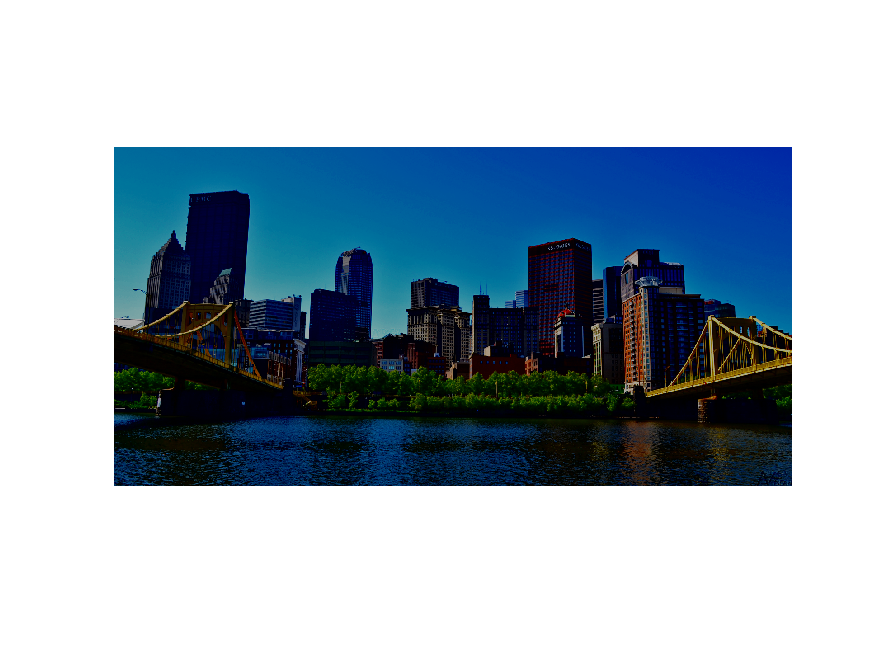
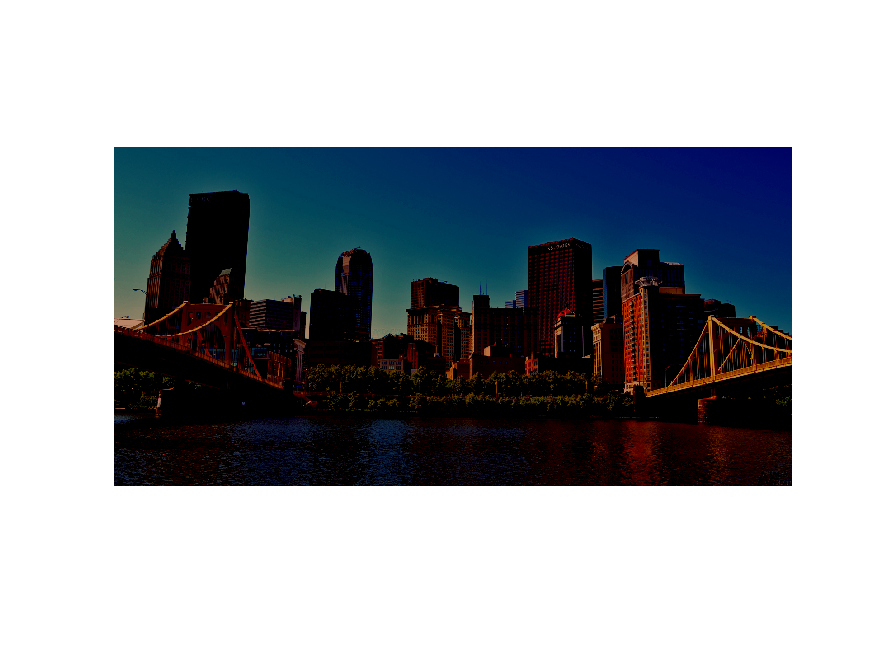
fixed some stuff i think

Changed region(s): [[0.1234, 0.2134, 0.9257, 0.7622]]

diff --git a/hw1/hw1.m b/hw1/hw1.m
@@ -3,23 +3,23 @@
 % Matrices and vectors
 % 1
 s = rng;
-bigVec = 5 .* randn(1000, 1);
+bigVec = 5 .* randn(1000000, 1);
 % stats = [mean(bigVec) std(bigVec) var(bigVec)] to check
 
 % 2
 sz = size(bigVec);
 tic
 for i = 1:sz(1)
-   bigVec(i) + 1; % should I save this in the vector?
+   bigVec(i) = bigVec(i) + 1; 
 end
 toc
 
 % 3
-start = cputime;
-bigVec = bigVec + 1;
-elapsed = cputime - start;
-fprintf("%f seconds without for loop.\n", elapsed)
-% why does this keep returning 0.000000?
+start = clock;
+bigVec(:) = bigVec(:) + 1;
+endT = clock;
+elapsed = etime(endT,  start);
+disp(elapsed);
 
 % 4
 x = 0:2:98;
@@ -42,7 +42,7 @@ for i = 1:10
     end
 end
 
-% 7
+% 5
 A = rand(5,3);
 B = rand(3,5);
 result = zeros(5,5);
@@ -133,11 +133,16 @@ saveas(gcf, 'new_image.png');
 % 19
 figure;
 % compute scalar average pixel value for each channel
-r = I(:,:,1);
-g = I(:,:,2);
-b = I(:,:,3);
-% compute avg
-av = (r+g+b)/3;
-I = I(:,:,:) - av;
-imshow(I)
+I3 = I;
+r = mean(I3(:,:,1), 'all');
+g = mean(I3(:,:,2), 'all');
+b = mean(I3(:,:,3), 'all');
+disp(r);
+disp(g);
+disp(b);
+I3(:,:,1) = I3(:,:,1) - r;
+I3(:,:,2) = I3(:,:,2) - g;
+I3(:,:,3) = I3(:,:,3) - b;
+
+imshow(I3)
 saveas(gcf, 'mean_sub.png')

diff --git a/hw1/fib.m b/hw1/fib.m
@@ -1,3 +1,9 @@
 function [val] = fib(n)
-% return n-th number in fibonacci sequence
-val = fibonacci(n);
+    % return n-th number in fibonacci sequence
+    if n < 2
+        val = n;
+    else
+        val = fib(n-1) + fib(n-2);
+    end
+end
+    
